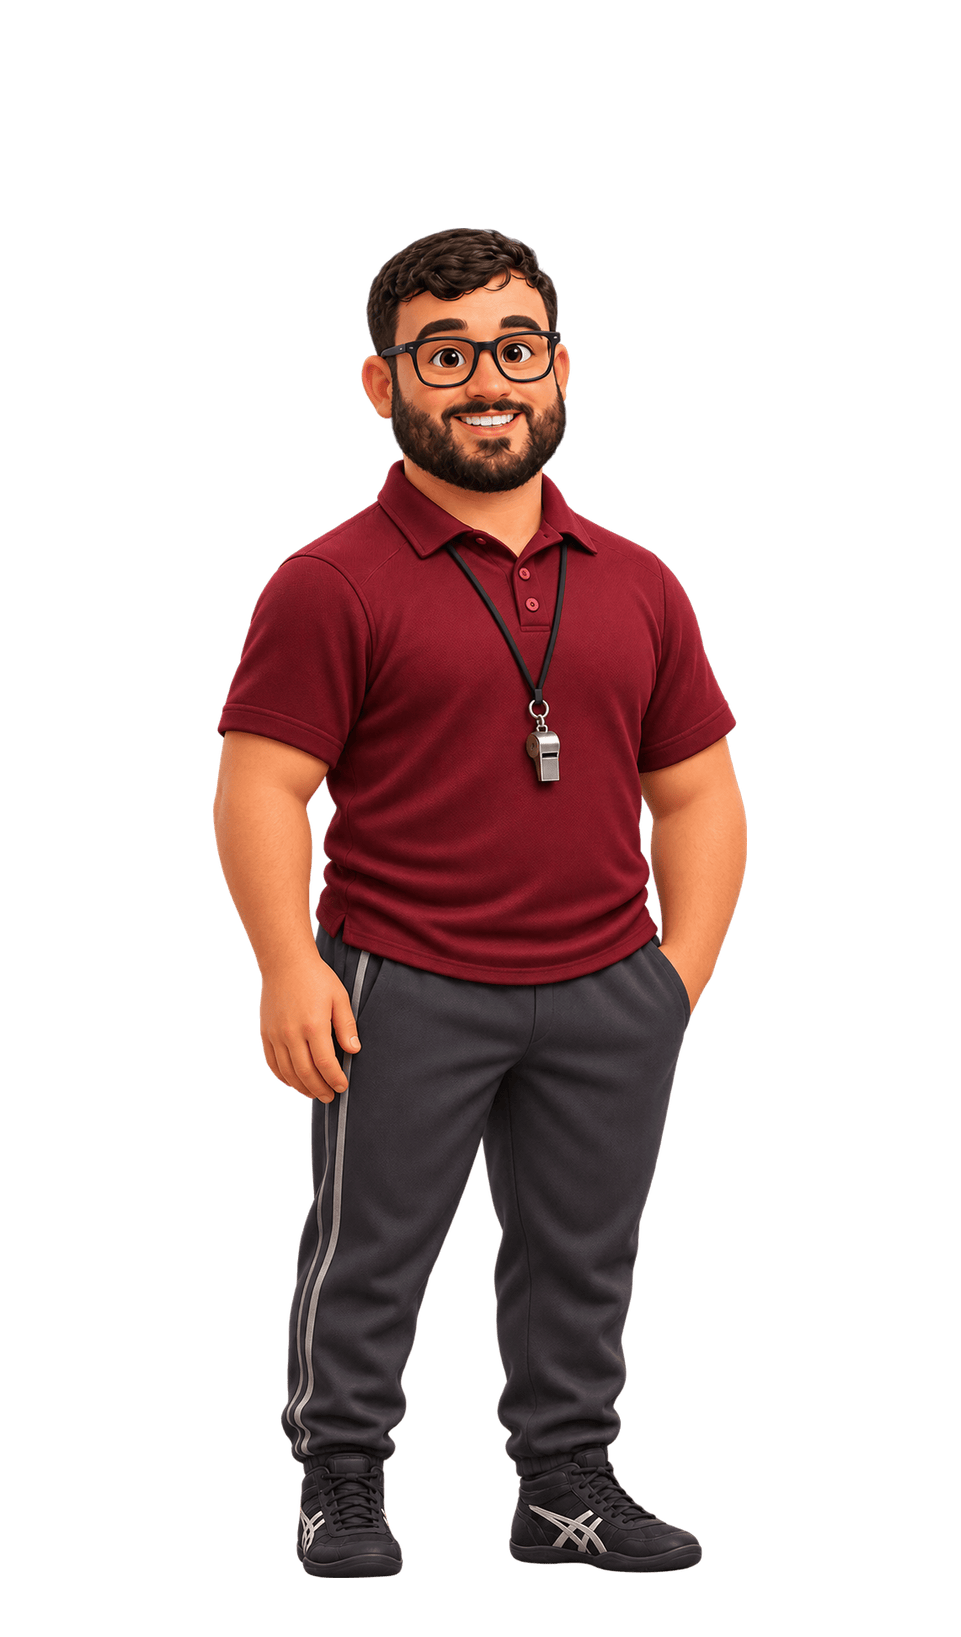
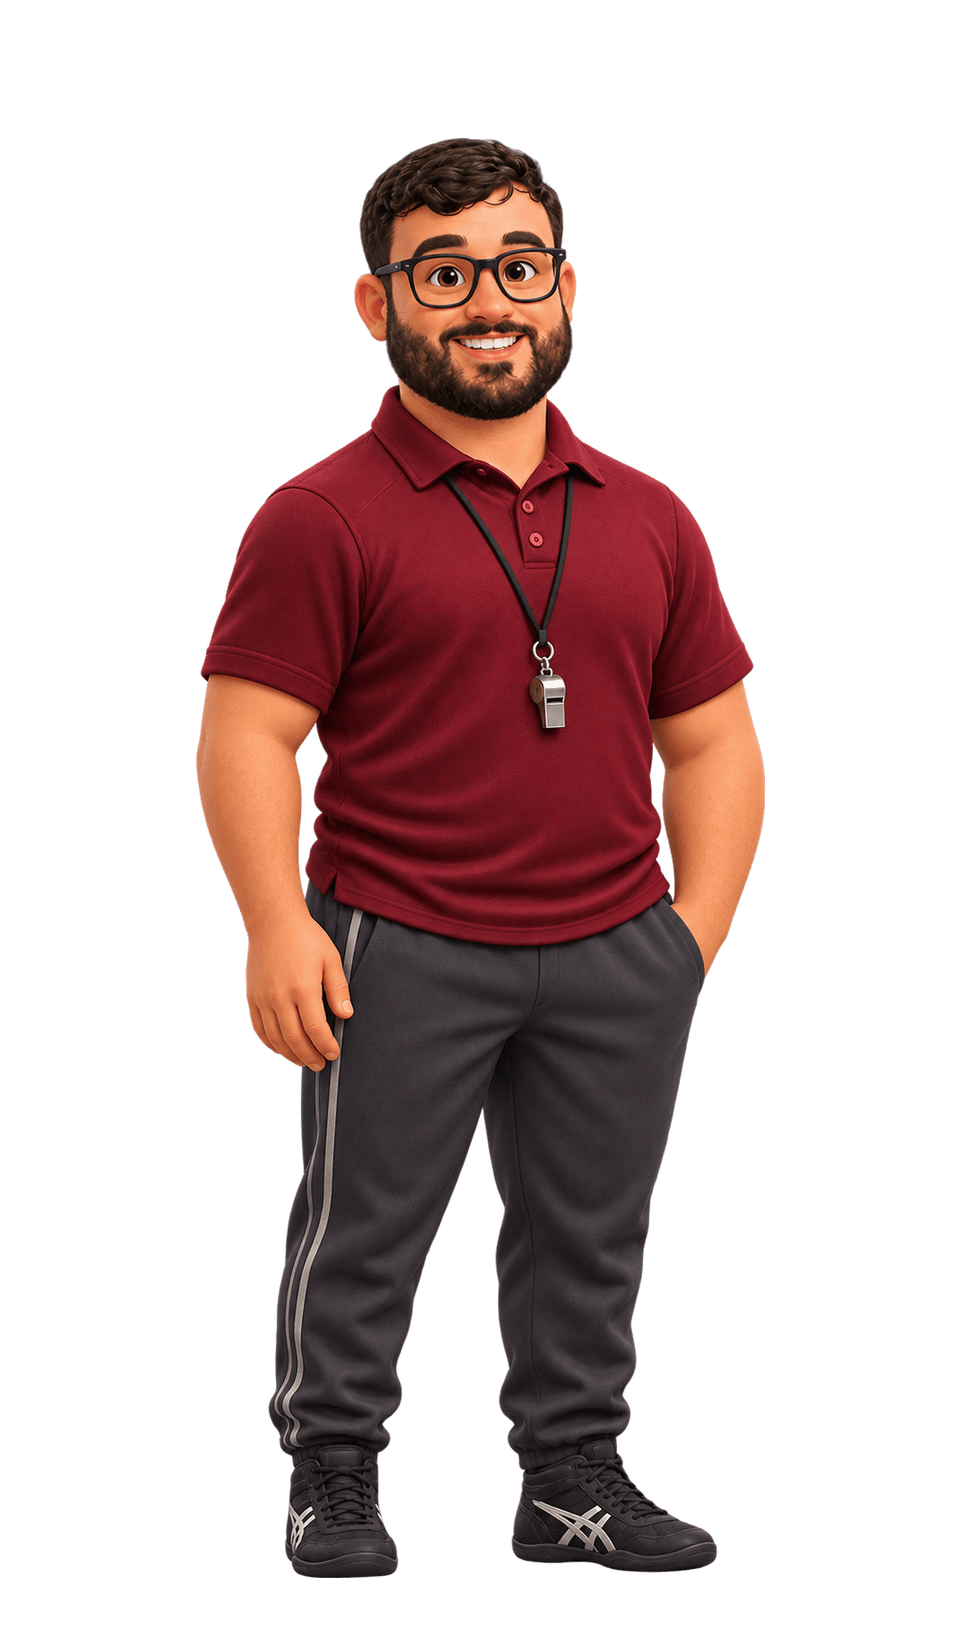
Side-scroll the tutor lineup and stand Mr. Sierawski taller (#1882)
With eleven tutors the picker stage clipped both ends (overflow hidden +
justify-content: center), so the outer tutors couldn't be reached on
desktop. The strip now scrolls horizontally, centres via auto margins on
the end figures, opens on the current tutor and re-centres on select.
Overlap is eased so the name labels stop running together.

Mr. Sierawski's full-body art re-exported at 1440 px (was 1350); the
picker carries ART_V on the -fullBody URLs so the week-long static cache
can't serve the old height.

Changed region(s): [[0.1873, 0.0623, 0.8117, 0.9658], [0.5931, 0.6542, 0.6243, 0.6854]]

diff --git a/public/css/tutor-picker.css b/public/css/tutor-picker.css
@@ -54,14 +54,29 @@
   position: relative;
   display: flex;
   align-items: flex-end;
-  justify-content: center;
+  justify-content: flex-start;
   gap: 0;
   min-height: 200px;
-  padding: 10px 6px 0;
+  padding: 10px 6px 8px;
   border-radius: var(--radius-lg);
   background: linear-gradient(180deg, #ffffff 0%, #eef4f6 100%);
-  overflow: hidden;
+  /* Eleven tutors don't fit one stage, so the crew side-scrolls. Centring
+     uses auto margins on the end figures (not justify-content: center, which
+     pushes overflow off the LEFT edge where it can't be scrolled to). */
+  overflow-x: auto;
+  overflow-y: hidden;
+  overscroll-behavior-x: contain;
+  scroll-snap-type: x proximity;
+  scrollbar-width: thin;
+  scrollbar-color: rgba(var(--clr-primary-teal-rgb), 0.45) transparent;
 }
+.tp-roster::-webkit-scrollbar { height: 8px; }
+.tp-roster::-webkit-scrollbar-thumb {
+  background: rgba(var(--clr-primary-teal-rgb), 0.45);
+  border-radius: 4px;
+}
+.tp-figure:first-child { margin-left: auto; }
+.tp-figure:last-child { margin-right: auto; }
 
 /* Sized by HEIGHT so they're big and fill the stage; a negative margin overlaps
    neighbours shoulder-to-shoulder for the "family portrait" look. Every art
@@ -88,7 +103,8 @@
 /* Overlap: the source PNGs carry wide transparent side-padding, so the figures
    only stand shoulder-to-shoulder once that padding is pulled through — but not
    so far that the name labels beneath collide. */
-.tp-figure + .tp-figure { margin-left: clamp(-90px, -5.5vw, -48px); }
+.tp-figure + .tp-figure { margin-left: clamp(-72px, -4.4vw, -40px); }
+.tp-figure { scroll-snap-align: center; }
 .tp-figure:hover { z-index: 2; }
 .tp-figure.selected { z-index: 3; }
 
@@ -140,6 +156,7 @@
   display: block;
   height: clamp(195px, 37vh, 350px);
   width: auto;
+  aspect-ratio: 961 / 1637;   /* lazy images take their width before loading, so the strip can scroll to the selected tutor */
   object-position: bottom center;
   filter: drop-shadow(0 6px 5px rgba(0, 0, 0, 0.16));
   transition: filter 0.18s ease, opacity 0.18s ease;

diff --git a/public/js/pick-tutor.js b/public/js/pick-tutor.js
@@ -36,6 +36,8 @@ document.addEventListener('DOMContentLoaded', () => {
   }
   function tutorById(id) { return allTutors.find(t => t.id === id); }
   function fullBodyBase(id) { return '/images/tutor_avatars/' + id + '-fullBody'; }
+  // Static images are cached for a week; bump when a -fullBody file is re-exported.
+  const ART_V = '?v=20261106b';
   function portraitBase(t) { return '/images/tutor_avatars/' + String(t.image || '').replace(/\.png$/, ''); }
 
   /* -------- MODE -------- */
@@ -109,12 +111,21 @@ document.addEventListener('DOMContentLoaded', () => {
       const art = fullBodyBase(t.id);
       btn.innerHTML =
         '<span class="tp-figure-img"><picture>' +
-          '<source srcset="' + art + '.webp" type="image/webp">' +
-          '<img src="' + art + '.png" alt="' + esc(t.name) + '" loading="lazy">' +
+          '<source srcset="' + art + '.webp' + ART_V + '" type="image/webp">' +
+          '<img src="' + art + '.png' + ART_V + '" alt="'  + esc(t.name) + '" loading="lazy">' +
         '</picture></span>' +
         '<span class="tp-figure-name">' + esc(t.name) + '</span>';
       roster.appendChild(btn);
     });
+    requestAnimationFrame(() => centreFigure(selectedTutorId, false));
+  }
+
+  // The strip side-scrolls; keep the chosen tutor in view without moving the page.
+  function centreFigure(id, smooth) {
+    const fig = roster.querySelector('.tp-figure[data-tutor-id="' + id + '"]');
+    if (!fig || roster.scrollWidth <= roster.clientWidth) return;
+    const left = fig.offsetLeft - (roster.clientWidth - fig.offsetWidth) / 2;
+    roster.scrollTo({ left: Math.max(0, left), behavior: smooth ? 'smooth' : 'auto' });
   }
 
   /* -------- DETAIL PANEL -------- */
@@ -144,6 +155,7 @@ document.addEventListener('DOMContentLoaded', () => {
     });
     stopVoice();
     renderPanel();
+    centreFigure(id, true);
   }
 
   roster.addEventListener('click', e => {

diff --git a/public/pick-tutor.html b/public/pick-tutor.html
@@ -5,7 +5,7 @@
   <meta name="viewport" content="width=device-width, initial-scale=1.0" />
   <title>Meet Your Math Tutors! | M∆THM∆TIΧ AI</title>
   <link rel="stylesheet" href="/style.css" />
-  <link rel="stylesheet" href="/css/tutor-picker.css?v=20261106ta" />
+  <link rel="stylesheet" href="/css/tutor-picker.css?v=20261106tb" />
   <link rel="stylesheet" href="/css/ux-enhancements.css" />
   <!-- Font Awesome, loaded once as CSS. The SVG-with-JS kit (js/all.min.js)
        used to be loaded alongside it: ~1.3MB of script that re-renders every
@@ -77,7 +77,7 @@
   <script src="/js/logout.js"></script>
   <script src="/js/csrf.js"></script>
   <script src="/js/tutor-config-data.js?v=20261106ta"></script>
-  <script type="module" src="/js/pick-tutor.js?v=20261106ta"></script>
+  <script type="module" src="/js/pick-tutor.js?v=20261106tb"></script>
   <script src="/js/ux-enhancements.js"></script>
 </body>
 </html>

diff --git a/docs/TUTOR_ART_BRIEF.md b/docs/TUTOR_ART_BRIEF.md
@@ -97,7 +97,7 @@ Once a tutor's files are in `public/images/tutor_avatars/` and `public/videos/`:
    "current-style art" block in `tests/unit/tutorShop.test.js` checks the files
    exist on the 961×1637 canvas. Prepare cutouts like the 2026-11-06 batch:
    drop alpha < 24 and specks under 3000 px, scale to a realistic height
-   (Bob 1390 px, Mr. Nappier 1502, Ms. Maria 1269, Maya 1216), feet on y = 1578,
+   (Bob 1390 px, Mr. Nappier 1502, Ms. Maria 1269, Maya 1216; Mr. Sierawski 1440), feet on y = 1578,
    centred; pngquant `--quality=80-98` (lossy PNG without it blotches skin
    tones) plus `.webp` q80 and `.avif` q60.
 4. Portraits: `utils/tutorConfig.js` `image` and the copy in
@@ -107,4 +107,5 @@ Once a tutor's files are in `public/images/tutor_avatars/` and `public/videos/`:
    import at the top of `public/js/script.js` (and `script.js?v=` in
    `chat.html`), `pick-tutor.js?v=` in `public/pick-tutor.html`, and
    `VIDEO_VERSION` in `chat-redesign.js` if a clip is re-exported under the same
-   name. Then check the chat page and the picker in the browser.
+   name, and `ART_V` in `public/js/pick-tutor.js` when a `-fullBody` file is
+   re-exported under the same name. Then check the chat page and the picker in the browser.
